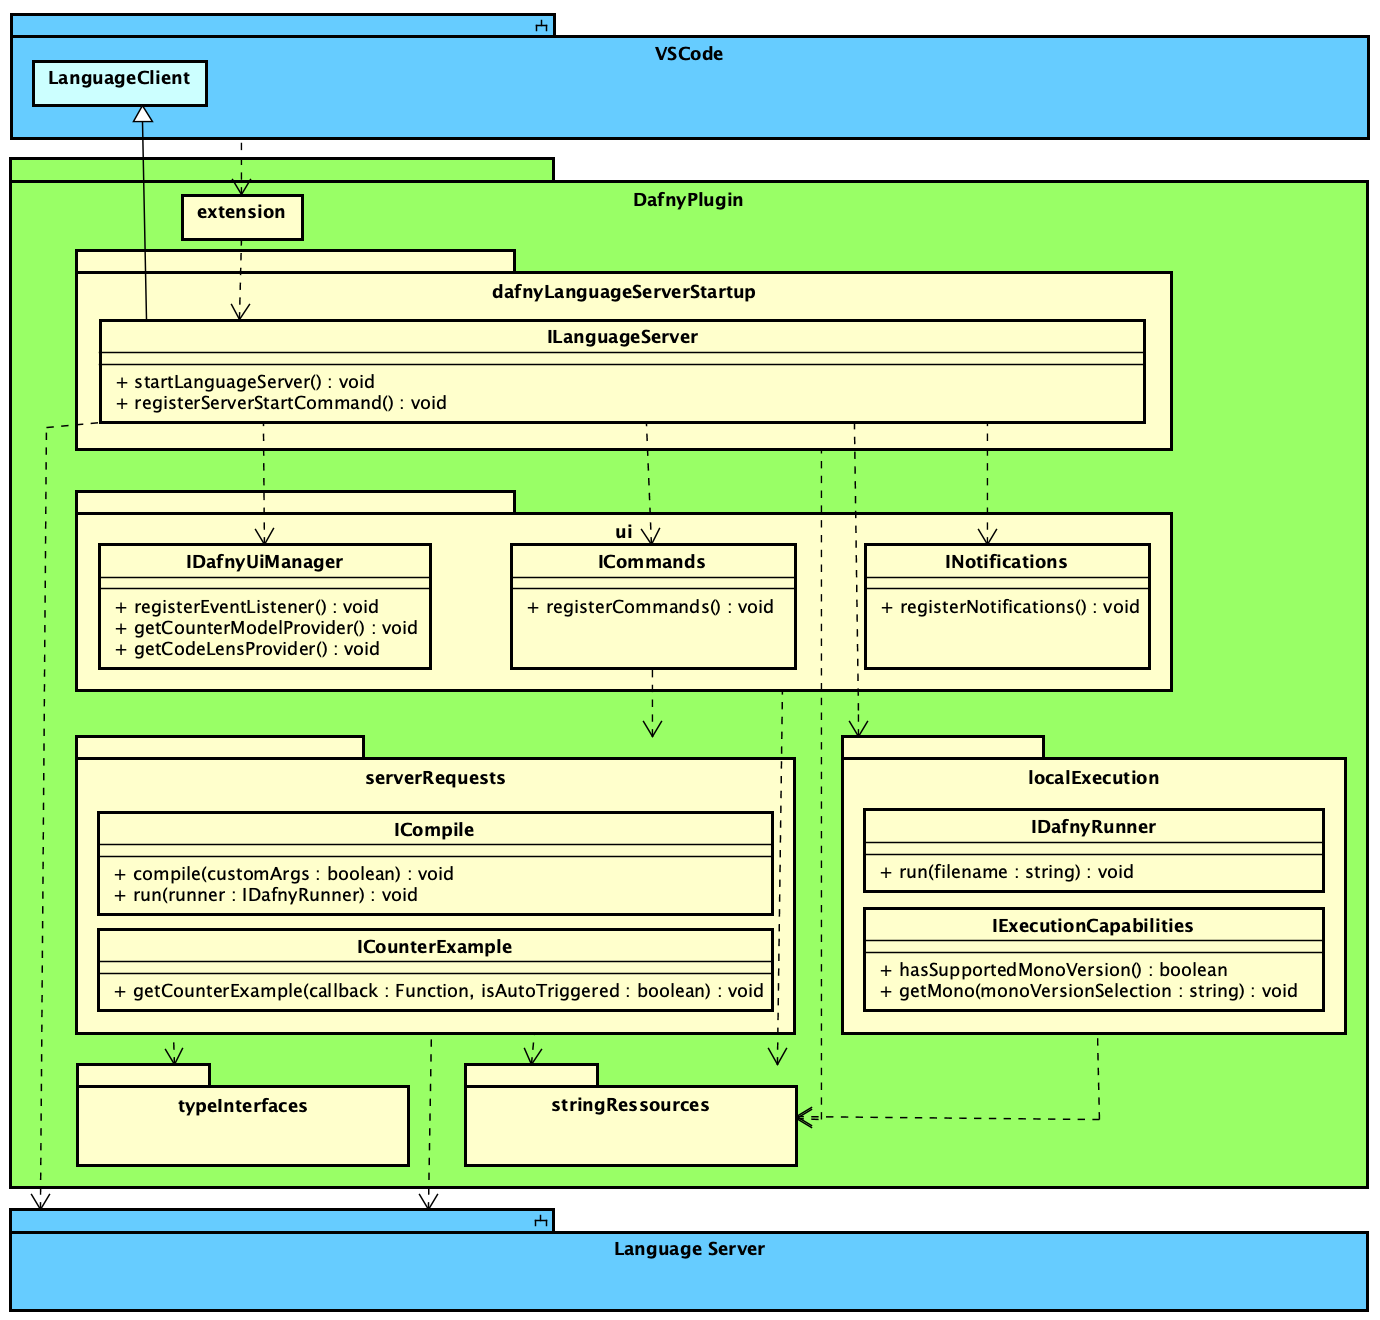
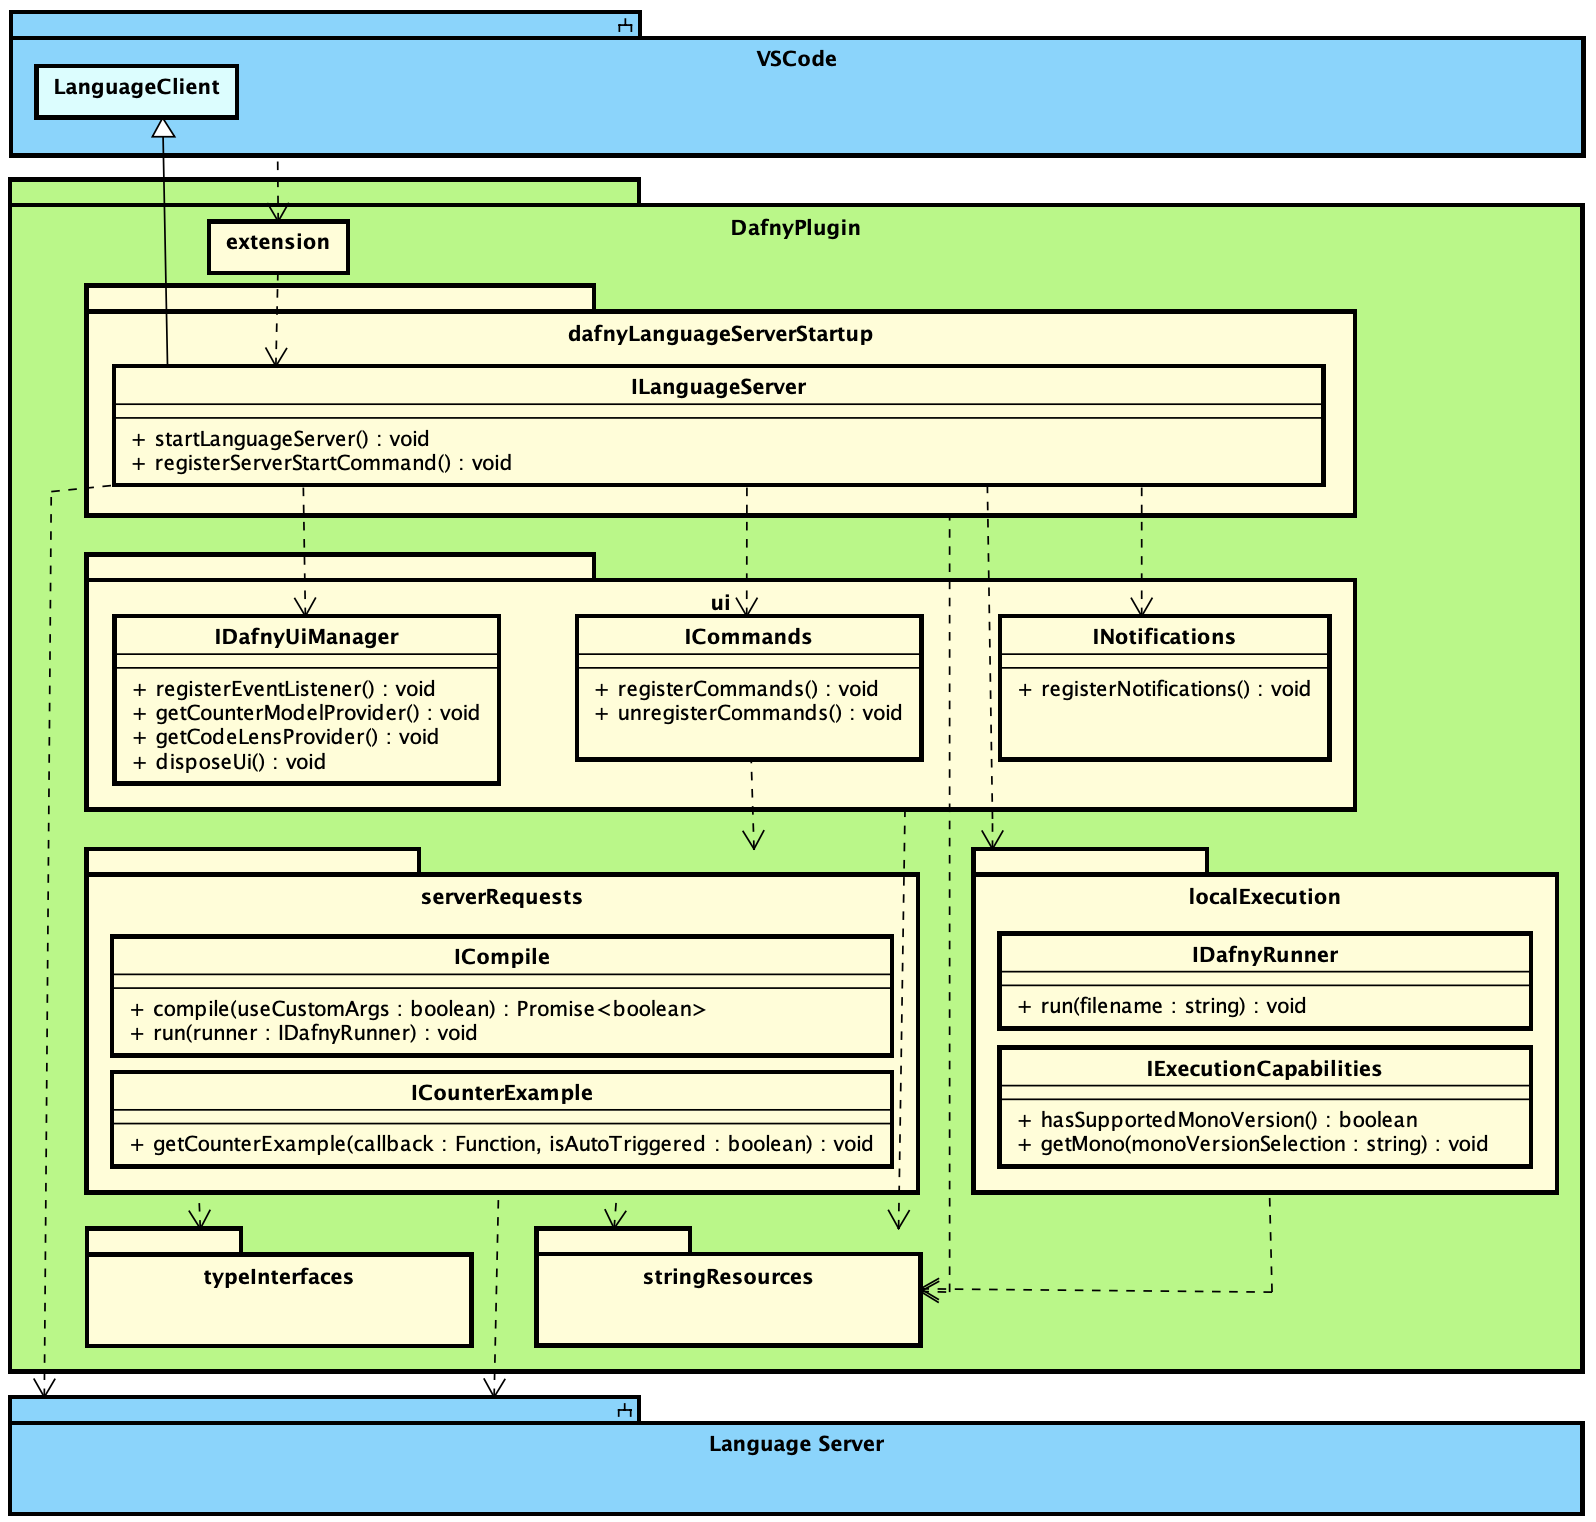
Zwischenstand Client sichern

diff --git a/chapters/06_implementation.tex b/chapters/06_implementation.tex
@@ -1,9 +1,22 @@
 \section{Implementation}
 This chapter describes the implementation of the planned design.
+First the characteristics of the client are shown.
+Then basic components of the server are described.
+The symbol table and its properties are treated as a separate section.
+The resulting features follow.
+This is followed by a discussion of platform independence followed by a section about automated testing.
+Results of our usability test and the resulting conclusions and improvements follow.
+This chapter is closed by the success achieved in terms of continuous integration.
 
 \subsection{Client}
-The implementation of the client could be done as intended.
+The implementation of the client could be basically done as intended.
 The whole code could be broken down into the individual components defined in the design phase.
+Individual deviations and descriptions of the individual implementation concepts follow in this section. \\
+
+These include a better separation of the components,
+a simplified migration concept for other, future IDEs,
+the download of the langauge server
+as well as basic configurations which are made possible for the end user.
 
 \subsubsection{Better Encapsulation Through Interfaces and Modules}
 During the implementation process, many confusing module imports and component usages arose.
@@ -41,6 +54,69 @@ This has the following reason: Up until this refactoring, the task of \code{stri
 In the code review, it was decided that default values should no longer be set within the independent modules,
 but rather at a central location.
 This would make it easier to maintain these values.
+
+\subsubsection{Client Modules In Detail}
+The individual modules from the design concept are shown below.
+The components shown in green are exported to the outside of the module and can be used by other modules.
+The other, orange components are only used within the module. \\
+
+For simplicity,  \intnote{(constructors,)} private methods and variables are omitted in the diagrams.
+Class implementations of interfaces only implement the methods specified in the interface as public.
+For this reason, their contents are not displayed for clarity.  \\
+
+In addition, there are two core modules, which were not considered in the design concept.
+The need for these modules only became apparent during the implementation phase.
+This concerns the isolation of VS Code components
+and the download of the Dafny language server.
+These two modules will be discussed separately in the following sections and not in this section.\\
+
+\textbf{\code{dafnyLanguageServerStartup}}\\
+The main package \code{dafnyLanguageServerStartup} is used by the \code{extension.ts}
+and contains basicly the packages "main logic".
+It is to start the Dafny language server and establish a connection,
+as well as basically initialize the plugin. This includes creating the UI management component and command registrations.
+
+If no local language server is available, the language server is downloaded from a server \\
+using the \code{LanguageServerInstaller} component.
+This component is only used inside the package, and is not exported to the outside,
+as can be seen in the figure \ref{fig:placeholder_ref}.
+This component can also be used to update the language server locally.
+Update means in this case to delete the local existing language server and download the latest version.
+For more details see section \ref{section:implementation:client:download}.
+
+\begin{figure}[H]
+    \centering
+    \includegraphics[width=\textwidth]{implementation/dafnyLanguageServerStartup}
+    \caption{Package \code{dafnyLanguageServerStartup}}
+    \label{fig:placeholder_ref}
+\end{figure}
+
+The logic of the main component \code{serverInitializer} itself was kept relatively small.
+To start the language server as a local process, two steps are basically required:\\
+
+First, basic options are set for the language server.
+These options are set in the \code{serverOptions} component. This component implements the \code{LanguageClient}
+of VS Code. "Client" is somewhat confusing in that sense, since this module is used to connect the language server; from client side.
+Among other things, the options are set with which command the server is started and which file types, which are opened in VS Code by the user of the plugin, should be transferred to the server. \\
+
+Secondly, \code{serverInitializer} registers a callback as the program entry point to the created \code{serverOptions} instance
+and then the language server is started with \code{this.languageServer.start()}. \\
+
+\textbf{\code{ui}}\\
+
+
+\textbf{\code{serverRequests}}\\
+
+\textbf{\code{localExecution}}\\
+
+\textbf{\code{typeInterfaces}}\\
+
+\textbf{\code{stringResources}}\\
+
+
+
+
+
 
 \subsubsection{Encapsulation of the VS Code Components}
  \intnote{einfache migration auf andere IDE ermoeglicht}
@@ -81,10 +157,9 @@ sonstige config und so sachen wurden zentralisiert. gm code review.
 
 
 
-todo hier nochmals jedes modul einzeln aufzeigen, was die aufgabe ist, welche interfaces und komponenten nach aussen exportiert werden
-=> oder ist das überflüssig? hmm... keine überschneidungen mit dem design / analyse
-tom: ich hab dasselbe probelm biem server. weiss auch net recht wie damti umgehen. ich liess es jetzt mal durch, mal sehen ev lösch ich vieels weg.... 
-ich glaub aam besten so machen: 'konnte wieg epalnt gemacht werden, z.b. dies das wurde so umgesetzt: und dann ein stück code das schön ist oder so'
+todo hier nochmals jedes modul einzeln aufzeigen, was die aufgabe ist
+auch gerne code snippeds
+
 nachfolgend werden die einzelnen module aufgezeigt.
 die grün dargestellten teile des moduls werden nach aussen exportiert und können von anderen modulen verwendet werden.
 die gelben/roten/orange teile werden nicht nach aussen exportiert und sind innerhalb des moduls gekapselt.
@@ -140,7 +215,7 @@ public class DafnyLanguageServer{
         configInitErrors = configInitializer.Errors;
         log = LoggerCreator.GetLogger();
     }
-        
+
     public async Task StartServer()
     {
         log.Debug(Resources.LoggingMessages.server_starting);
@@ -1464,4 +1539,3 @@ The test has shown, that the process completes within 20 seconds on a 3.4GHz mac
 
 For reproducibility, nUnits randomizer was used, which will create the same 'random' test file on every run.
 Technically, the file generation could be excluded from the test engine, but it was left inside, in case someone wants to create additional or other tests.
-

diff --git a/chapters/05_design.tex b/chapters/05_design.tex
@@ -90,7 +90,7 @@ Core components like the status bar are also included in this package.\\
 This package contains small logic extensions like the execution of compiled Dafny files.
 The UI package accesses this package.\\
 
-{\bf StringResources} \textendash{} \intnote{resource mit einem s - das ist im code auch falsch und müsstest du noch korrigieren. Jepp. in den grafiken auch. kommt noch später todo}
+{\bf StringResources} \textendash{}
 All string resources and command identifiers are defined in this package.
 It is used by the UI package. \\
 

diff --git a/chapters/10_SA_Chapters.tex b/chapters/10_SA_Chapters.tex
@@ -3,6 +3,9 @@ The following sections originated in the preexisting semester thesis "Dafny Serv
 
  \intnote{State that the repetition is necessary for the sake of completeness to have this thesis as complete reference for further work on the project.}
 
+Für den experten.
+motivatioN, warum gewisse dokumente inhalte übernommen werden.
+
 \begin{itemize}
     \item Chapter \ref{section:abstract} \nameref{section:abstract}
         \begin{itemize}
